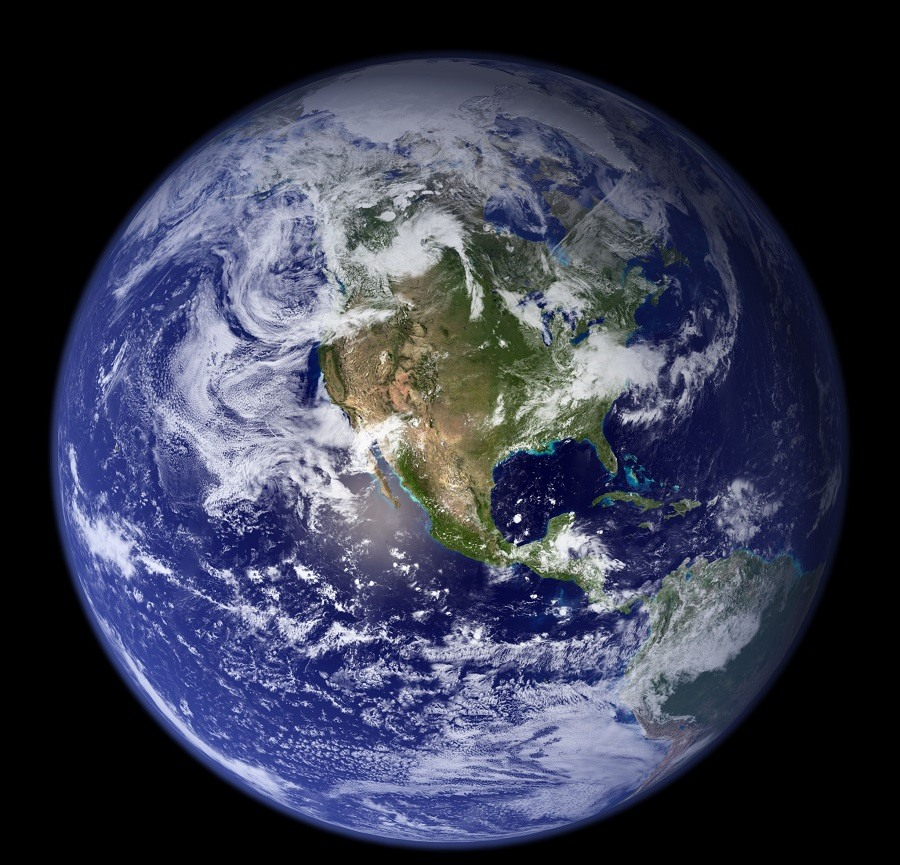
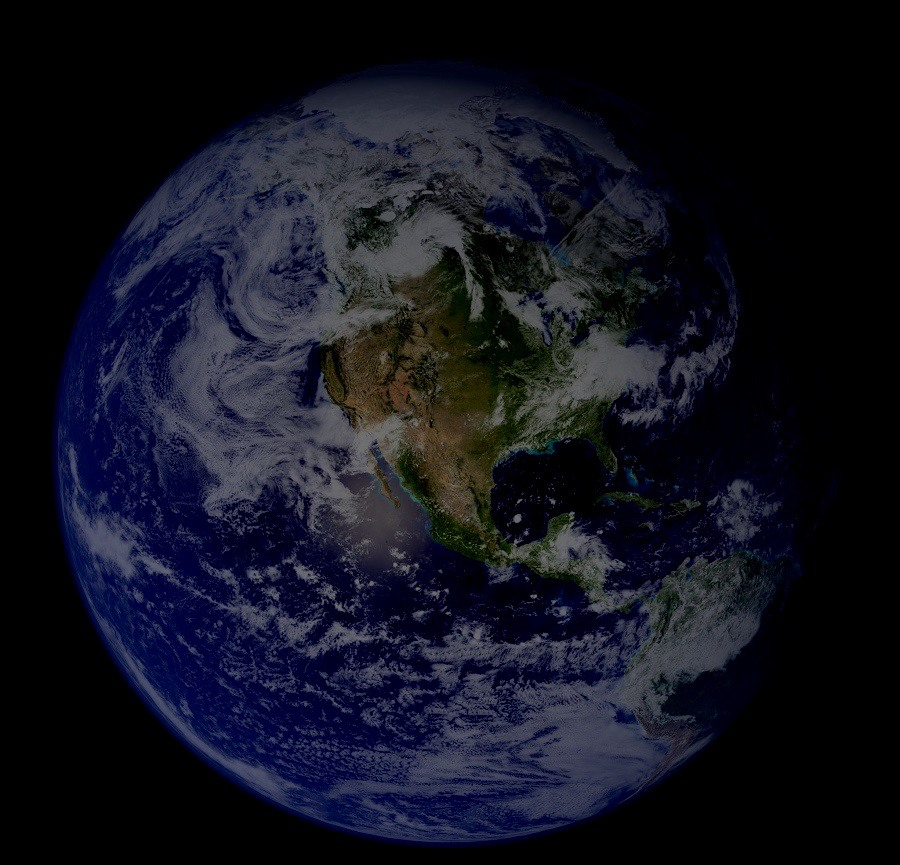
Changed the background of the Earth to improve the readability of the labels

diff --git a/src/App.css b/src/App.css
@@ -17,12 +17,15 @@ body{
     overflow: auto;
     padding: 5px;
 }
+
 .white-font{
     color: #fff;
 }
+
 .grey-font{
-    color: #C1CFD3;
+    color: #C0CFD3;
 }
+
 .mars {
     background: url("./images/mars.jpg");
     background-size: 100%;
@@ -37,6 +40,7 @@ body{
     background: url("./images/earth.jpg");
     background-size: 100%;
 }
+
 .timer{
     border: 1px solid white;
     width: fit-content;
